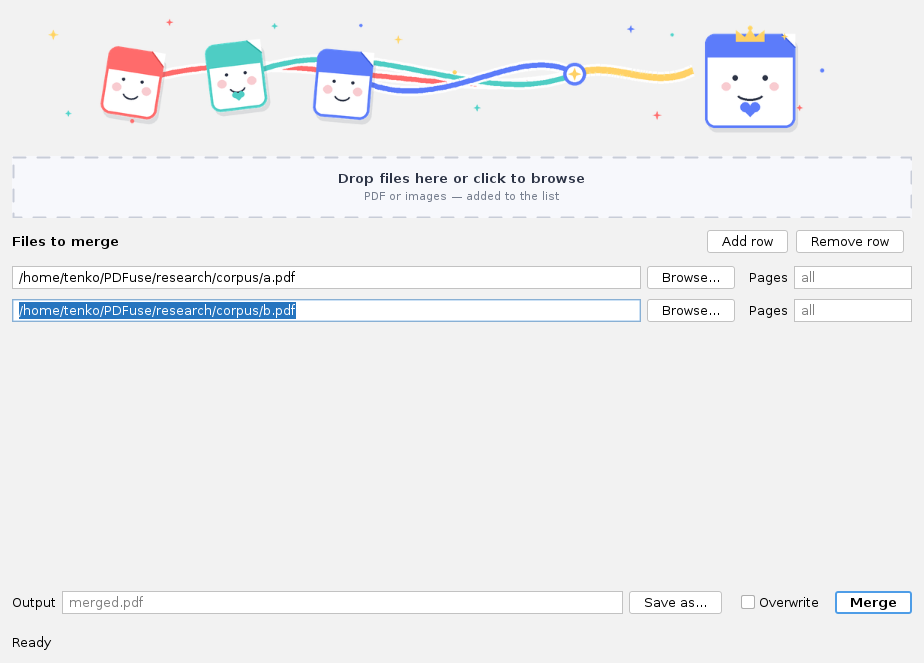
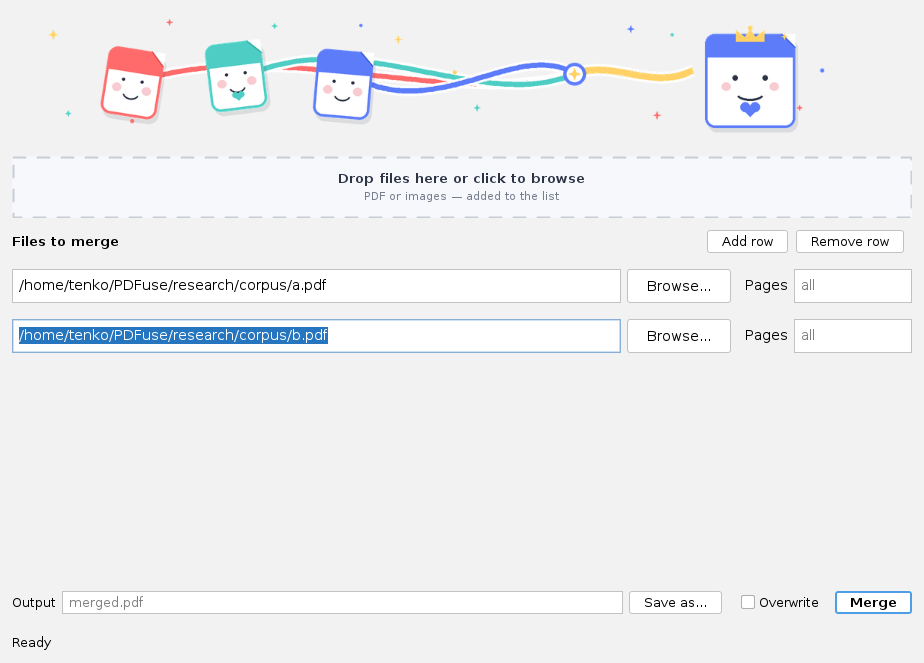
Enlarge input rows for better readability

Changed region(s): [[0.0, 0.3922, 0.9091, 0.543]]

diff --git a/src/main/java/com/pdfuse/ui/InputRow.java b/src/main/java/com/pdfuse/ui/InputRow.java
@@ -19,6 +19,9 @@ import javax.swing.filechooser.FileNameExtensionFilter;
 /** Une ligne de saisie : chemin + bouton parcourir + plage de pages. */
 final class InputRow extends JPanel {
 
+    private static final int FIELD_HEIGHT = 34;
+    private static final float FIELD_FONT_SIZE = 14f;
+
     private final JTextField pathField = new JTextField();
     private final JTextField pagesField = new JTextField();
     private final JButton browseButton = new JButton("Browse...");
@@ -26,15 +29,25 @@ final class InputRow extends JPanel {
     InputRow(String path) {
         super(new GridBagLayout());
         setOpaque(false);
-        setBorder(BorderFactory.createEmptyBorder(5, 0, 5, 0));
+        setBorder(BorderFactory.createEmptyBorder(8, 0, 8, 0));
 
         pathField.setText(path);
+        pathField.setFont(pathField.getFont().deriveFont(FIELD_FONT_SIZE));
+        pathField.setPreferredSize(new Dimension(200, FIELD_HEIGHT));
         pathField.putClientProperty("JTextField.placeholderText", "PDF or image path");
         pathField.setToolTipText("Path to a PDF or an image");
 
         pagesField.setColumns(8);
+        pagesField.setFont(pagesField.getFont().deriveFont(FIELD_FONT_SIZE));
+        pagesField.setPreferredSize(new Dimension(96, FIELD_HEIGHT));
         pagesField.putClientProperty("JTextField.placeholderText", "all");
         pagesField.setToolTipText("Pages to keep, 1-based: 1-3,5. Empty = all pages");
+
+        browseButton.setFont(browseButton.getFont().deriveFont(FIELD_FONT_SIZE));
+        browseButton.setPreferredSize(new Dimension(104, FIELD_HEIGHT));
+
+        JLabel pagesLabel = new JLabel("Pages");
+        pagesLabel.setFont(pagesLabel.getFont().deriveFont(FIELD_FONT_SIZE));
 
         GridBagConstraints constraints = new GridBagConstraints();
         constraints.gridy = 0;
@@ -52,7 +65,7 @@ final class InputRow extends JPanel {
 
         constraints.gridx = 2;
         constraints.insets = new Insets(0, 8, 0, 6);
-        add(new JLabel("Pages"), constraints);
+        add(pagesLabel, constraints);
 
         constraints.gridx = 3;
         constraints.insets = new Insets(0, 0, 0, 0);
